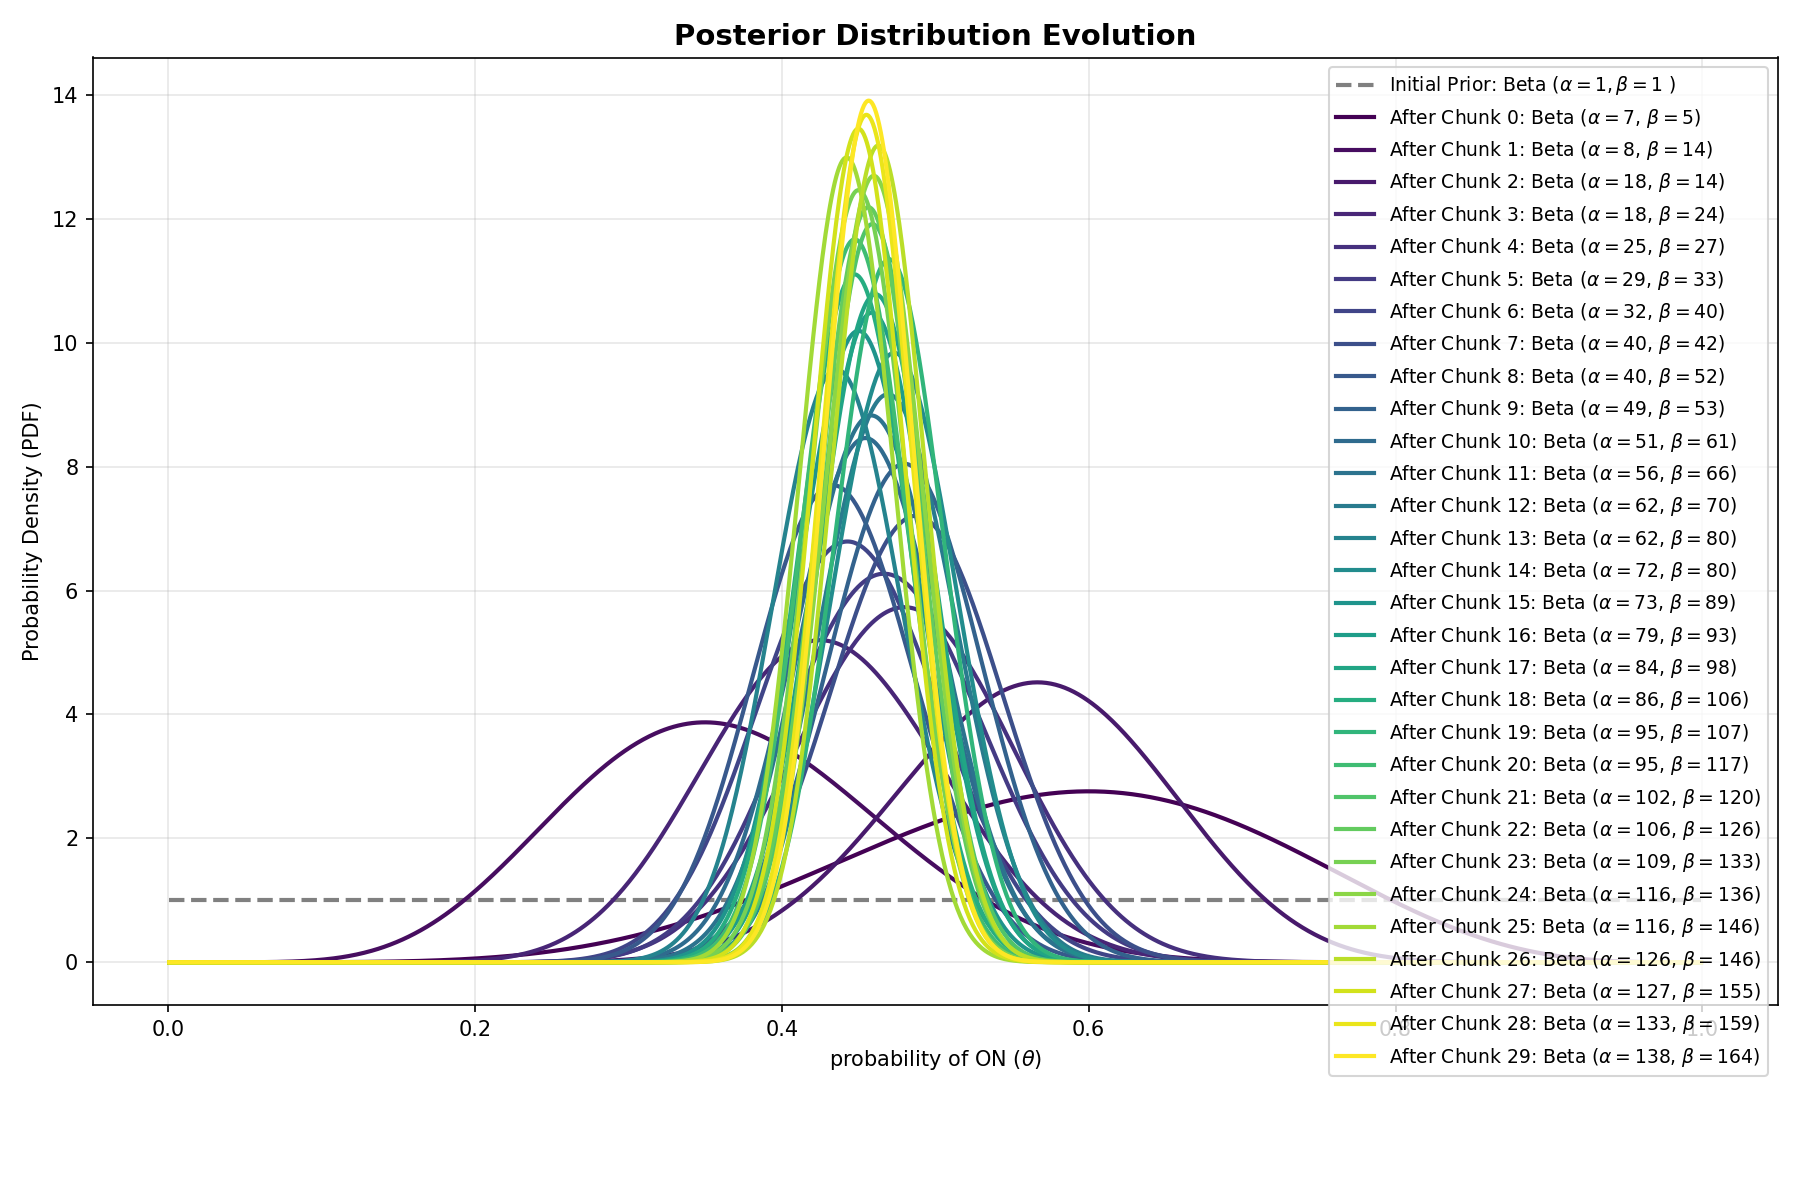
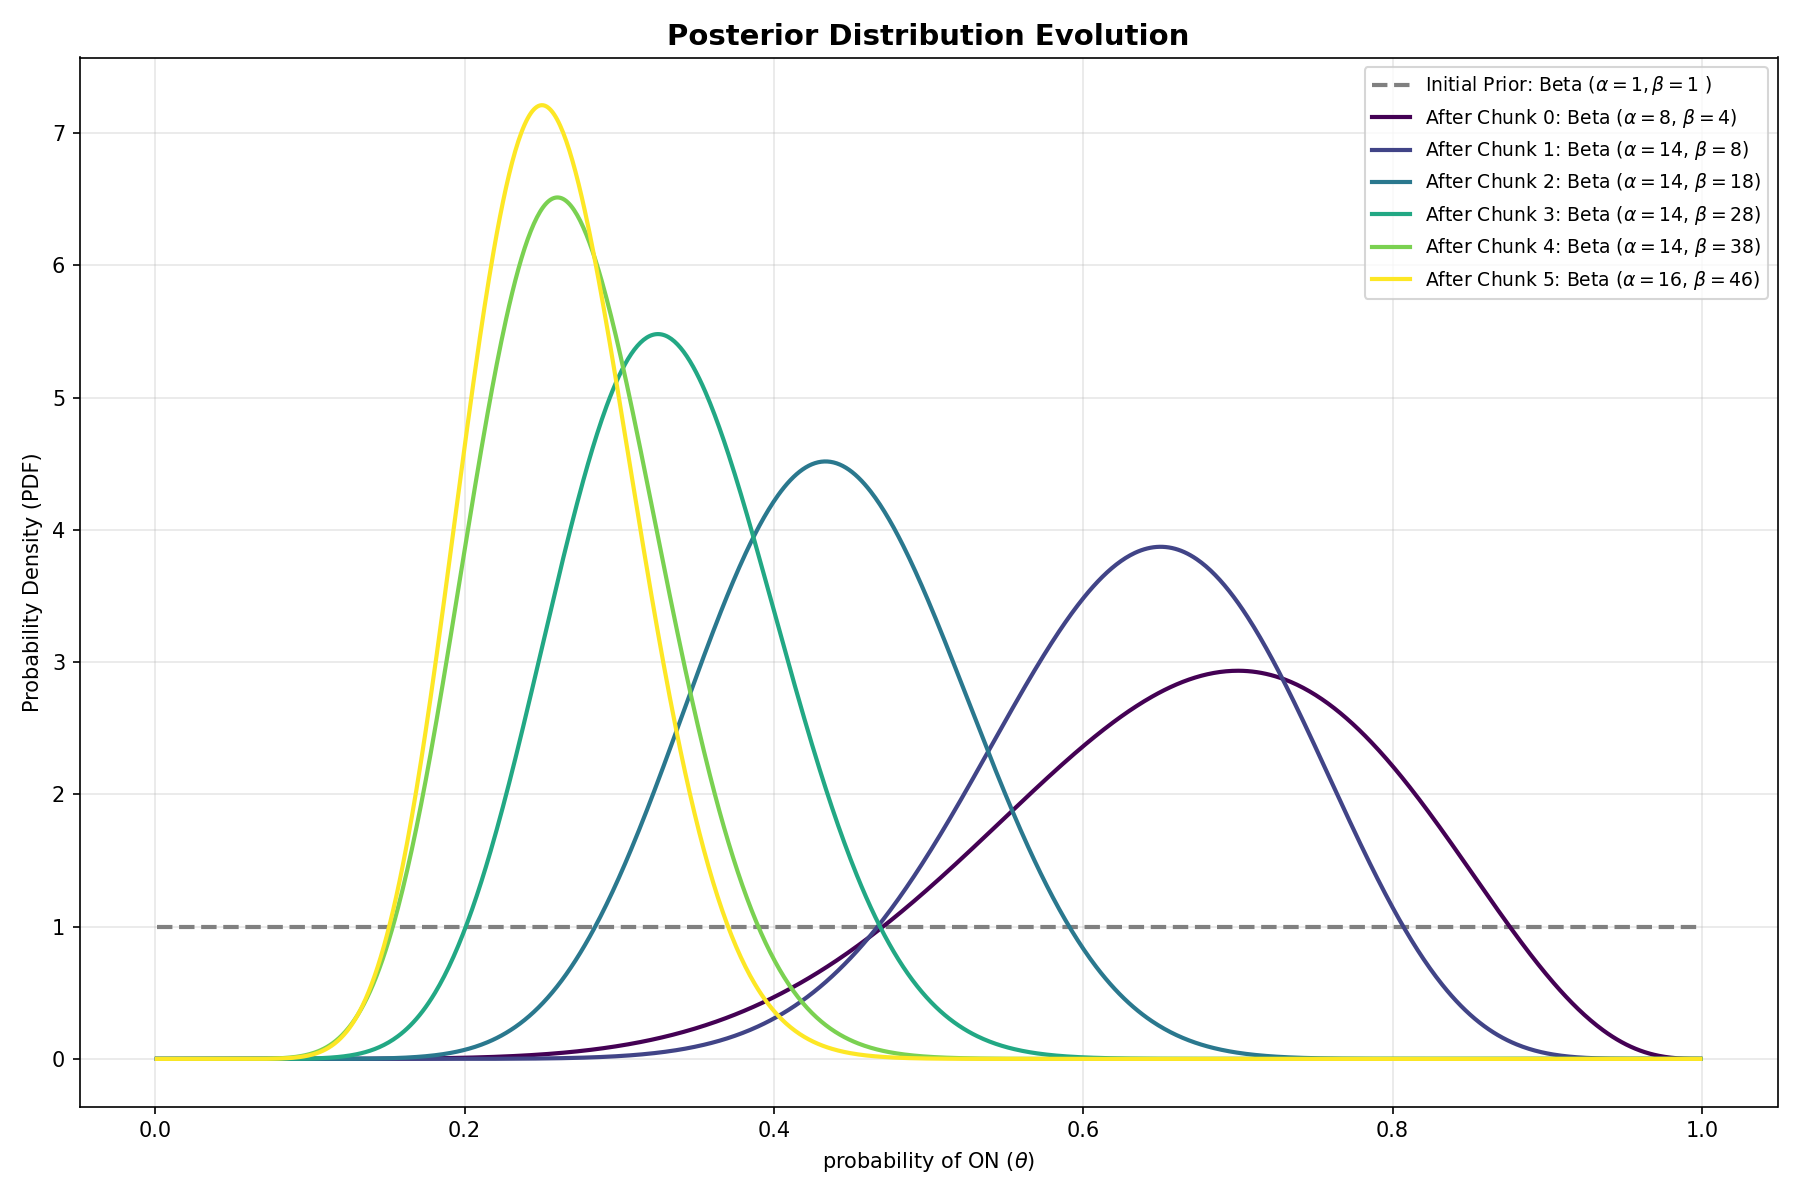
repeated the sequential bayesian with multiple WHs.

diff --git a/self-learning/bayesian/scripts/multi_der_seq_bayesian.py b/self-learning/bayesian/scripts/multi_der_seq_bayesian.py
@@ -1,0 +1,294 @@
+# %%
+import os
+import numpy as np
+import pandas as pd
+from pathlib import Path
+from scipy.stats import beta
+from scipy.special import comb
+import matplotlib.pyplot as plt
+from pprint import pprint as pp
+import matplotlib.ticker as ticker
+import bayesian_experiment as bayesian
+
+# %%
+def prepare_data (df : pd.DataFrame, start_index : int, window_size : int) -> pd.DataFrame:
+    """
+    Extract slice of the data for analysis
+    
+    :param df: df with state column
+    :type df: pd.DataFrame
+    :return: H number of ONs
+    :rtype: int
+    :return: T number of OFFs
+    :rtype: int
+    :return: n total observations
+    :rtype: int
+    """
+    # Slice the data:
+    # df_sliced = df.head (60)
+    df_sliced = df.iloc[start_index: start_index+window_size]
+    H = (df_sliced['state'] == 1).sum()
+    T = (df_sliced['state'] == 0).sum()
+    n = H + T
+
+    return H, T, n, df_sliced
+
+def calculate_stats (alpha : int, beta_param : int) -> dict:
+    
+    mean = (alpha) / (alpha+beta_param)
+    variance = (alpha * beta_param) / ( 
+        ((alpha+beta_param)**2) * (alpha + beta_param + 1)
+        )
+    
+    std = np.sqrt (variance)
+    ci_lower = beta.ppf (0.025, alpha, beta_param)
+    ci_upper = beta.ppf (0.975, alpha, beta_param)
+    
+    return {
+        'mean' : mean, 'variance' : variance, 'std' : std, 'ci_lower' : ci_lower, 'ci_upper' : ci_upper
+    }
+
+def sequential_bayesian_implementation (theta_values : np.array, df : pd.DataFrame,
+                                        num_chunks : int, window_size : int):
+    """
+    There are two methods to calculate the posterior:
+    1- Calculating every term individually - likelihood, prior, and normalization constant
+    2- Or, we can use the posterior conjugate. Both return the same results!
+    
+    NOTE: posterior conjugate only works with beta prior and binomial likelihood
+    """
+
+    history = {
+        'std' : [],
+        'beta' : [],
+        'mean' : [],
+        'prior' : [],
+        'chunk' : [],
+        'alpha' : [],
+        'H_chunk' : [],
+        'T_chunk' : [],
+        'ci_upper' : [],
+        'ci_lower' : [],
+        'evidence' : [],
+        'posterior' : [],
+        'likelihood' : [],
+    }
+
+    # choose prior parameters (removed the function, it's unccessary)
+    alpha, beta_param = 1, 1
+
+    for chunk_idx in range(num_chunks):
+        
+        start_idx = chunk_idx * window_size
+        
+        # df_sliced is used for debugging
+        Hsliced, Tsliced, nsliced, df_slice = prepare_data (df=df,
+                                                             start_index=start_idx,
+                                                             window_size=window_size
+                                                             )
+        
+        posterior_alpha = alpha + Hsliced
+        posterior_beta = beta_param + Tsliced
+
+        stats = calculate_stats (alpha=posterior_alpha, beta_param=posterior_beta)
+
+        prior = bayesian.calculate_prior (theta_values=theta_values,
+                                 alpha=alpha, beta_param=beta_param)
+        
+        likelihood = bayesian.calculate_likelihood (theta_values=theta_values,
+                                           H=Hsliced, T=Tsliced, n=nsliced)
+        
+        evidence = bayesian.calculate_evidence (theta_values=theta_values,
+                                       likelihood=likelihood,
+                                       prior=prior)
+        
+        posterior = bayesian.calculate_posterior_conjugate (theta_values=theta_values,
+                                                            alpha_posterior=posterior_alpha,
+                                                            beta_posterior=posterior_beta)
+    
+
+        history['prior'].append(prior)
+        history['chunk'].append(chunk_idx)
+        history['H_chunk'].append(Hsliced)
+        history['T_chunk'].append(Tsliced)
+        history['std'].append(stats['std'])
+        history['evidence'].append(evidence)
+        history['mean'].append(stats['mean'])
+        history['posterior'].append(posterior)
+        history['beta'].append(posterior_beta)
+        history['likelihood'].append(likelihood)
+        history['alpha'].append(posterior_alpha)
+        history['ci_lower'].append(stats['ci_lower'])
+        history['ci_upper'].append(stats['ci_upper'])
+
+        alpha = posterior_alpha
+        beta_param = posterior_beta
+
+    return history
+
+def plot_final_theta_comparison(all_histories):
+    """
+    Compare final θ estimates across all water heaters
+    """
+    wh_names = list(all_histories.keys())
+    final_thetas = [all_histories[wh]['mean'][-1] for wh in wh_names]
+    
+    plt.figure(figsize=(12, 6))
+    plt.bar(range(len(wh_names)), final_thetas, color='steelblue', alpha=0.7)
+    plt.axhline(y=np.mean(final_thetas), color='red', linestyle='--', 
+                linewidth=2, label=f'Average θ = {np.mean(final_thetas):.4f}')
+    
+    plt.xlabel('Water Heater', fontsize=12)
+    plt.ylabel(f'Final {r"$\theta = $"} Estimate', fontsize=12)
+    plt.title(f'Final {r"$\theta = $"} Estimates Across All Water Heaters', fontsize=14, fontweight='bold')
+    plt.xticks(range(len(wh_names)), wh_names, rotation=90, ha='right')
+    plt.legend()
+    plt.grid(True, alpha=0.3, axis='y')
+    plt.tight_layout()
+    plt.savefig('../results/theta_comparison.png', dpi=150, bbox_inches='tight')
+    plt.show()
+
+def plot_all_posteriors_detailed(all_histories):
+    """
+    Plot all final posterior distributions with detailed statistics
+    """
+    theta_values = np.linspace(0.001, 0.999, 1000)
+    
+    fig, ax = plt.subplots(figsize=(16, 10))
+    
+    colors = plt.cm.tab10(np.linspace(0, 1, len(all_histories)))
+    
+    for idx, (wh_name, history) in enumerate(all_histories.items()):
+        # Final posterior parameters
+        final_alpha = history['alpha'][-1]
+        final_beta = history['beta'][-1]
+        
+        # Calculate statistics
+        mean_theta = final_alpha / (final_alpha + final_beta)
+        
+        # Calculate posterior PDF
+        posterior_pdf = beta.pdf(theta_values, final_alpha, final_beta)
+        
+        # Create detailed label
+        label = (f'{wh_name}: '
+                f'Beta({r"$\alpha$"}={final_alpha}, {r"$\beta$"}={final_beta}) | '
+                f'{r"$\theta$"}={mean_theta:.3f}')
+        
+        # Plot
+        ax.plot(theta_values, posterior_pdf, 
+                linewidth=2.5, 
+                color=colors[idx],
+                label=label,
+                alpha=0.8)
+        
+        # Mark the mean
+        ax.axvline(x=mean_theta, color=colors[idx], 
+                  linestyle=':', alpha=0.4, linewidth=1.5)
+    
+    ax.set_xlabel(f'{r"$\theta$"} (Probability of ON)', fontsize=14, fontweight='bold')
+    ax.set_ylabel('Probability Density', fontsize=14, fontweight='bold')
+    ax.set_title('Posterior Distributions Comparison: All Water Heaters', 
+                fontsize=16, fontweight='bold')
+    ax.legend(loc='upper right', fontsize=8, framealpha=0.9)
+    ax.grid(True, alpha=0.3)
+    # ax.set_xlim(0, 0.4)  # Adjust based on your data
+    
+    plt.tight_layout()
+    plt.savefig('../results/all_posteriors_detailed.png', dpi=150, bbox_inches='tight')
+    plt.show()
+
+def plot_evolution_comparison(all_histories):
+    """
+    Compare how θ evolves over chunks for all water heaters
+    """
+    fig, axes = plt.subplots(3, 1, figsize=(14, 12))
+    
+    colors = plt.cm.tab10(np.linspace(0, 1, len(all_histories)))
+    
+    for idx, (wh_name, history) in enumerate(all_histories.items()):
+        chunks = history['chunk']
+        
+        # Plot 1: Mean evolution
+        axes[0].plot(chunks, history['mean'], 
+                    linewidth=2, marker='o', markersize=4,
+                    color=colors[idx], label=wh_name, alpha=0.7)
+        
+        # Plot 2: Uncertainty evolution
+        axes[1].plot(chunks, history['std'], 
+                    linewidth=2, marker='s', markersize=4,
+                    color=colors[idx], label=wh_name, alpha=0.7)
+        
+        # Plot 3: Credible interval width
+        ci_width = np.array(history['ci_upper']) - np.array(history['ci_lower'])
+        axes[2].plot(chunks, ci_width, 
+                    linewidth=2, marker='^', markersize=4,
+                    color=colors[idx], label=wh_name, alpha=0.7)
+    
+    # Formatting
+    axes[0].set_ylabel(f'{r"$\theta = $"} Estimate', fontsize=12)
+    axes[0].set_title(f'{r"$\theta = $"} Evolution Across Water Heaters', fontsize=14, fontweight='bold')
+    axes[0].legend(loc='right', fontsize=8, ncol=2)
+    axes[0].grid(True, alpha=0.3)
+    
+    axes[1].set_ylabel('Standard Deviation', fontsize=12)
+    axes[1].set_title('Uncertainty Evolution', fontsize=14, fontweight='bold')
+    axes[1].legend(loc='best', fontsize=8, ncol=2)
+    axes[1].grid(True, alpha=0.3)
+    
+    axes[2].set_xlabel('Chunk Number', fontsize=12)
+    axes[2].set_ylabel('95% CI Width', fontsize=12)
+    axes[2].set_title('Credible Interval Width Evolution', fontsize=14, fontweight='bold')
+    axes[2].legend(loc='best', fontsize=8, ncol=2)
+    axes[2].grid(True, alpha=0.3)
+    
+    plt.tight_layout()
+    plt.savefig('../results/evolution_comparison.png', dpi=150, bbox_inches='tight')
+    plt.show()
+
+def plot_comparison_all_wh(all_histories):
+    """
+    Master comparison function - calls all other comparison functions
+    """
+    # Plot 1: Final theta comparison
+    plot_final_theta_comparison(all_histories)
+    
+    # Plot 2: Evolution comparison
+    plot_evolution_comparison(all_histories)
+
+    plot_all_posteriors_detailed (all_histories=all_histories)
+    
+    # Print statistical summary
+    # print_statistical_summary(all_histories)
+# %%
+if __name__ == '__main__':
+
+    with open ('./filtered_dataset.txt', 'r', encoding='utf-8-sig') as f:
+        input_paths = f.readlines ()
+        input_paths = [s.strip() for s in input_paths if s.strip()]
+
+     # Get the dataset input files:
+    all_histories = {}
+
+    # Set the theta values:
+    theta_values = np.linspace (0.001, 0.999, 1000)
+
+    # define loop parameters:
+    window_size, num_chunks = 10, 50
+
+    for idx, input_file in enumerate (input_paths):
+
+        # Read the input files
+        df = bayesian.load_wh_data (filepath=input_file)
+
+        # Create binary states
+        df = bayesian.create_binary_states (df=df, threshold=0.5)
+        
+        # Run the bayesian implementation:
+        history = sequential_bayesian_implementation (theta_values=theta_values,
+                                                      df=df, num_chunks=num_chunks, window_size=window_size
+                                                      )
+        bldg_id = input_file.split('/')[-3]
+
+        all_histories [bldg_id] = history
+    
+    plot_comparison_all_wh (all_histories=all_histories)

diff --git a/self-learning/bayesian/scripts/ochre_ewh_data_processing.py b/self-learning/bayesian/scripts/ochre_ewh_data_processing.py
@@ -1,13 +1,49 @@
 import pandas as pd
 from pathlib import Path
 import matplotlib.pyplot as plt
+import matplotlib.ticker as ticker
+import bayesian_experiment as bayesian
 
-root = Path (__file__).resolve ().parents[3]
-dataset_dir = root / 'datasets' / 'resstock_2025' / 'load_profiles' / 'cosimulation' / '577' / 'up00' / 'ochre.csv'
+with open ('./filtered_dataset.txt', 'r', encoding='utf-8-sig') as f:
+    input_paths = f.readlines ()
+    input_paths = [s.strip() for s in input_paths if s.strip()]
 
-df = pd.read_csv (dataset_dir, usecols = ['Time', 'Water Heating Electric Power (kW)'])
 
-df = df.head(1440)
+fig, ax = plt.subplots(figsize=(10,6))
 
-df.plot (x='Time', y='Water Heating Electric Power (kW)')
-plt.show()
+for f in input_paths:
+
+    # bayesian.
+    
+    df = pd.read_csv (f, usecols = ['Time', 'Water Heating Electric Power (kW)'])
+
+    # df = df.head(1400)
+
+    max_kw = df['Water Heating Electric Power (kW)'].max()
+
+    mean_kw = df['Water Heating Electric Power (kW)'].mean()
+
+    median_kw = df['Water Heating Electric Power (kW)'].median()
+
+    min_kw = df['Water Heating Electric Power (kW)'].min()
+
+    print(f'max: {max_kw}\nmean: {mean_kw}\nmedian: {median_kw}\nmin: {min_kw}')
+    mask = df['Water Heating Electric Power (kW)'].between (0,5.0, inclusive='neither')
+    dff = df['Water Heating Electric Power (kW)'][mask]
+    # print(dff)
+
+    # print(df)
+    
+    print("="*40)
+
+    # quit()
+    
+    # watts = df[df.columns[1]]
+    
+    # df['Time'] = pd.to_datetime (df['Time']).dt.strftime ('%d %H:%M')
+    
+    # ax.plot(df['Time'], watts)
+
+    # ax.xaxis.set_major_locator (ticker.MaxNLocator (20))
+
+    # plt.show()

diff --git a/self-learning/bayesian/scripts/bayesian_experiment.py b/self-learning/bayesian/scripts/bayesian_experiment.py
@@ -19,7 +19,7 @@ def load_wh_data (filepath : str) -> pd.DataFrame:
     """
     return pd.read_csv (filepath)
 
-def create_binary_states (df : pd.DataFrame) -> pd.DataFrame:
+def create_binary_states (df : pd.DataFrame, threshold : float) -> pd.DataFrame:
     """
     convert power values to binary states (ON = 1, OFF=0)
     
@@ -29,7 +29,7 @@ def create_binary_states (df : pd.DataFrame) -> pd.DataFrame:
     :rtype: DataFrame
     """
     # df['state'] = (df['tn_meter_4br_46:measured_real_power'] ==4500).astype(int)
-    df['state'] = (df[df.columns[1]] ==4500).astype(int)
+    df['state'] = (df[df.columns[1]] > threshold).astype(int)
     return df
 
 def prepare_data (df : pd.DataFrame, start_index : int, window_size : int) -> pd.DataFrame:
@@ -313,7 +313,7 @@ if __name__ == '__main__':
     df = load_wh_data (filepath=input_files[0])
 
     # Create binary states
-    df = create_binary_states (df=df)
+    df = create_binary_states (df=df, threshold = 4500.0)
 
     # initialize the state of the given profile
     H, T, n, df_sliced = prepare_data (df=df, start_index=0, window_size=60)
